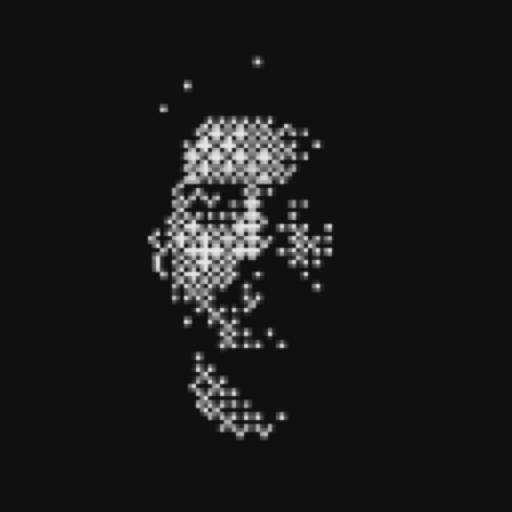
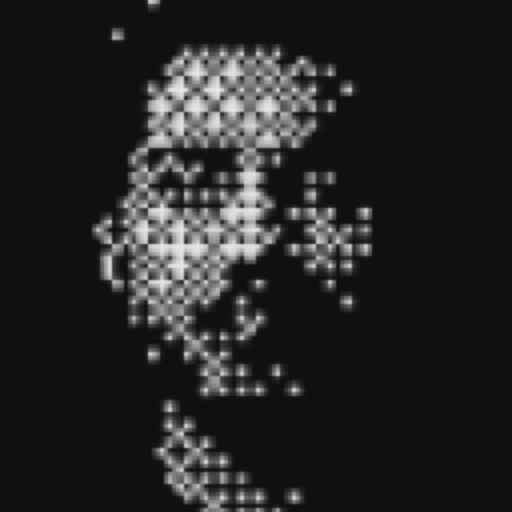
Publish corrected site identity SEO

diff --git a/lib/site.ts b/lib/site.ts
@@ -1,18 +1,14 @@
 export const siteConfig = {
   url: "https://rezwannavid.me",
   name: "Mir Rezwan Navid",
-  shortName: "Rezwan Navid",
+  title: "Mir Rezwan Navid | Product Brain, Design Heart",
+  shortName: "Mir Rezwan Navid",
   alternateNames: ["Rezwan Navid", "Rezwan", "Mir Navid"],
-  applicationName: "Rezwan Navid Portfolio",
-  description: "Mir Rezwan Navid is a product designer and product manager in Dhaka, Bangladesh, creating digital products, design systems, brands, and AI-enabled experiences.",
+  applicationName: "Mir Rezwan Navid",
+  description: "Mir Rezwan Navid combines product strategy, thoughtful design, business insight, and AI to turn complex problems into intuitive, scalable digital experiences.",
   email: "[email redacted]",
   locale: "en_US",
   language: "en",
-  location: {
-    city: "Dhaka",
-    country: "Bangladesh",
-    countryCode: "BD",
-  },
   social: {
     linkedin: "https://www.linkedin.com/in/rezwannavid",
     medium: "https://medium.com/@rezwannavid",
@@ -26,7 +22,7 @@ export const siteConfig = {
     url: "/rezwan-navid-portfolio-og.png",
     width: 1200,
     height: 630,
-    alt: "Mir Rezwan Navid — product designer and product manager portfolio",
+    alt: "Mir Rezwan Navid | Product Brain, Design Heart",
   },
   knowsAbout: [
     "Product design",

diff --git a/lib/structuredData.ts b/lib/structuredData.ts
@@ -10,20 +10,10 @@ export const personSchema = {
   "@id": schemaIds.person,
   name: siteConfig.name,
   alternateName: siteConfig.alternateNames,
-  jobTitle: ["Product Designer", "UX Designer", "UI Designer", "Product Manager"],
   description: siteConfig.description,
   url: siteConfig.url,
   image: absoluteUrl(siteConfig.personImage),
   email: `mailto:${siteConfig.email}`,
-  homeLocation: {
-    "@type": "Place",
-    name: `${siteConfig.location.city}, ${siteConfig.location.country}`,
-    address: {
-      "@type": "PostalAddress",
-      addressLocality: siteConfig.location.city,
-      addressCountry: siteConfig.location.countryCode,
-    },
-  },
   knowsAbout: siteConfig.knowsAbout,
   sameAs: socialProfiles,
 };
@@ -32,8 +22,8 @@ export const websiteSchema = {
   "@type": "WebSite",
   "@id": schemaIds.website,
   url: siteConfig.url,
-  name: siteConfig.applicationName,
-  alternateName: `${siteConfig.shortName} Website`,
+  name: siteConfig.name,
+  alternateName: siteConfig.alternateNames,
   description: siteConfig.description,
   inLanguage: siteConfig.language,
   publisher: { "@id": schemaIds.person },

diff --git a/lib/metadata.ts b/lib/metadata.ts
@@ -8,8 +8,6 @@ const sharedKeywords = [
   "UX designer",
   "UI designer",
   "product manager",
-  "product designer in Dhaka",
-  "designer in Bangladesh",
   "product design portfolio",
 ];
 
@@ -60,8 +58,8 @@ export function createPageMetadata({
     alternates: { canonical },
     robots: sharedRobots,
     openGraph: {
-      title,
-      description,
+      title: siteConfig.title,
+      description: siteConfig.description,
       url: canonical,
       type: "website",
       siteName: siteConfig.applicationName,
@@ -70,8 +68,8 @@ export function createPageMetadata({
     },
     twitter: {
       card: "summary_large_image",
-      title,
-      description,
+      title: siteConfig.title,
+      description: siteConfig.description,
       creator: siteConfig.twitterHandle,
       images: [{ url: imageUrl, alt: image.alt }],
     },

diff --git a/app/layout.tsx b/app/layout.tsx
@@ -17,10 +17,10 @@ const neueMontreal = localFont({
 });
 
 const defaultMetadata = createPageMetadata({
-  title: "Mir Rezwan Navid | Product Thinker",
+  title: siteConfig.title,
   description: siteConfig.description,
   path: "/",
-  keywords: ["Rezwan portfolio", "Rezwan Navid portfolio", "UX designer in Dhaka", "product manager in Bangladesh", "Mir Rezwan Navid portfolio", "Rezwan Navid UX designer", "Rezwan Navid product manager"],
+  keywords: ["Rezwan portfolio", "Rezwan Navid portfolio", "Mir Rezwan Navid portfolio", "Product Brain", "Design Heart", "product strategy", "AI product design"],
   category: "Product Design, Product Management, UX Design, UI Design, Web Development",
 });
 
@@ -30,10 +30,12 @@ export const metadata: Metadata = {
   manifest: "/manifest.webmanifest",
   icons: {
     icon: [
-      { url: "/favicon.ico", sizes: "32x32", type: "image/x-icon" },
+      { url: "/favicon.ico", sizes: "48x48", type: "image/x-icon" },
+      { url: "/icon.png", sizes: "192x192", type: "image/png" },
       { url: "/icon-192.png", sizes: "192x192", type: "image/png" },
       { url: "/icon-512.png", sizes: "512x512", type: "image/png" },
     ],
+    shortcut: [{ url: "/favicon.ico", sizes: "48x48", type: "image/x-icon" }],
     apple: [{ url: "/apple-touch-icon.png", sizes: "180x180", type: "image/png" }],
     other: [{ rel: "mask-icon", url: "/safari-pinned-tab.svg", color: "#101010" }],
   },

diff --git a/app/page.tsx b/app/page.tsx
@@ -4,15 +4,16 @@ import { SiteHeader } from "@/components/layout/SiteHeader";
 import { JsonLd } from "@/components/seo/JsonLd";
 import { createPageMetadata } from "@/lib/metadata";
 import { breadcrumbSchema, pageSchema, webPageSchema } from "@/lib/structuredData";
+import { siteConfig } from "@/lib/site";
 
-const title = "Mir Rezwan Navid — Portfolio in Development";
-const description = "Mir Rezwan Navid is a product designer and product thinker based in Dhaka, Bangladesh. His new portfolio is currently in development.";
+const title = siteConfig.title;
+const description = siteConfig.description;
 
 export const metadata: Metadata = createPageMetadata({
   title,
   description,
   path: "/",
-  keywords: ["Rezwan portfolio", "Rezwan Navid website", "Mir Rezwan Navid portfolio", "product designer in Dhaka"],
+  keywords: ["Rezwan portfolio", "Rezwan Navid website", "Mir Rezwan Navid portfolio", "Product Brain", "Design Heart", "product strategy", "AI product design"],
   category: "Product Design",
 });
 